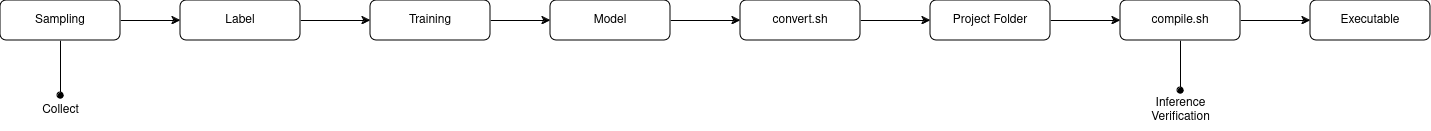
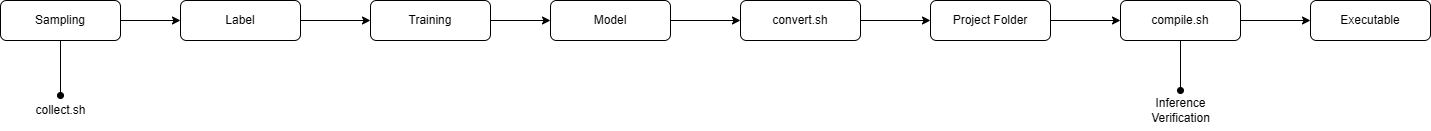
fix some context

diff --git a/doc/transfer.md b/doc/transfer.md
@@ -15,7 +15,7 @@ We provide the Container to let user can easyily sampling, convert model and cro
 
 ```shell
 # Load Image
-docker load -i container.tar
+docker load -i image.tar
 
 # Run Container
 docker run -it --rm -v $(pwd):/workspace/ --workdir /workspace instai/transfer_model:v3
@@ -32,6 +32,10 @@ Before starting, let's briefly explain the different features. As you can see, t
 `upd.sh`: (optional) Cross-compile the project and send data to the UDP server (Refer to [UDP](../doc/udp.md))
 
 ![alt text](../img/docker-procedure.png)
+
+<!-- Description -->
+
+This flowchart outlines the process of developing an executable file: data samples are collected using `collect.sh`, labeled, used to train a model, converted via `convert.sh`, placed in the project folder, and compiled into an executable using `compile.sh` with inference verification.
 
 </details>
 

diff --git a/doc/connect_board.md b/doc/connect_board.md
@@ -34,7 +34,9 @@ sudo minicom -s
 sudo minicom -D /dev/ttyUSB0
 ```
 
-The '/dev/ttyUSB0' is a 'USB to TTL' chip. If you want to ensure which device is yours, you can use the command "sudo dmesg --follow" to check when the chip is connecting to your computer.
+<!-- The '/dev/ttyUSB0' is a 'USB to TTL' chip. If you want to ensure which device is yours, you can use the command "sudo dmesg --follow" to check when the chip is connecting to your computer. -->
+
+`/dev/ttyUSB0` is a `USB to TTL` chip. If you want to identify which device is yours, you can use the command `sudo dmesg --follow` to check the messages when the chip connects to your computer.
 
 </details>
 

diff --git a/doc/udp.md b/doc/udp.md
@@ -2,6 +2,8 @@
 
 It is the same way to cross-compile your project, like selecting stream mode. After compiling the project by executing the script named `udp.sh`, you will get the `build` folder in the project named `transfer_model`.
 
+![](../img/udp-pipeline.png)
+
 <details open>
 <summary>Compile</summary>
 
